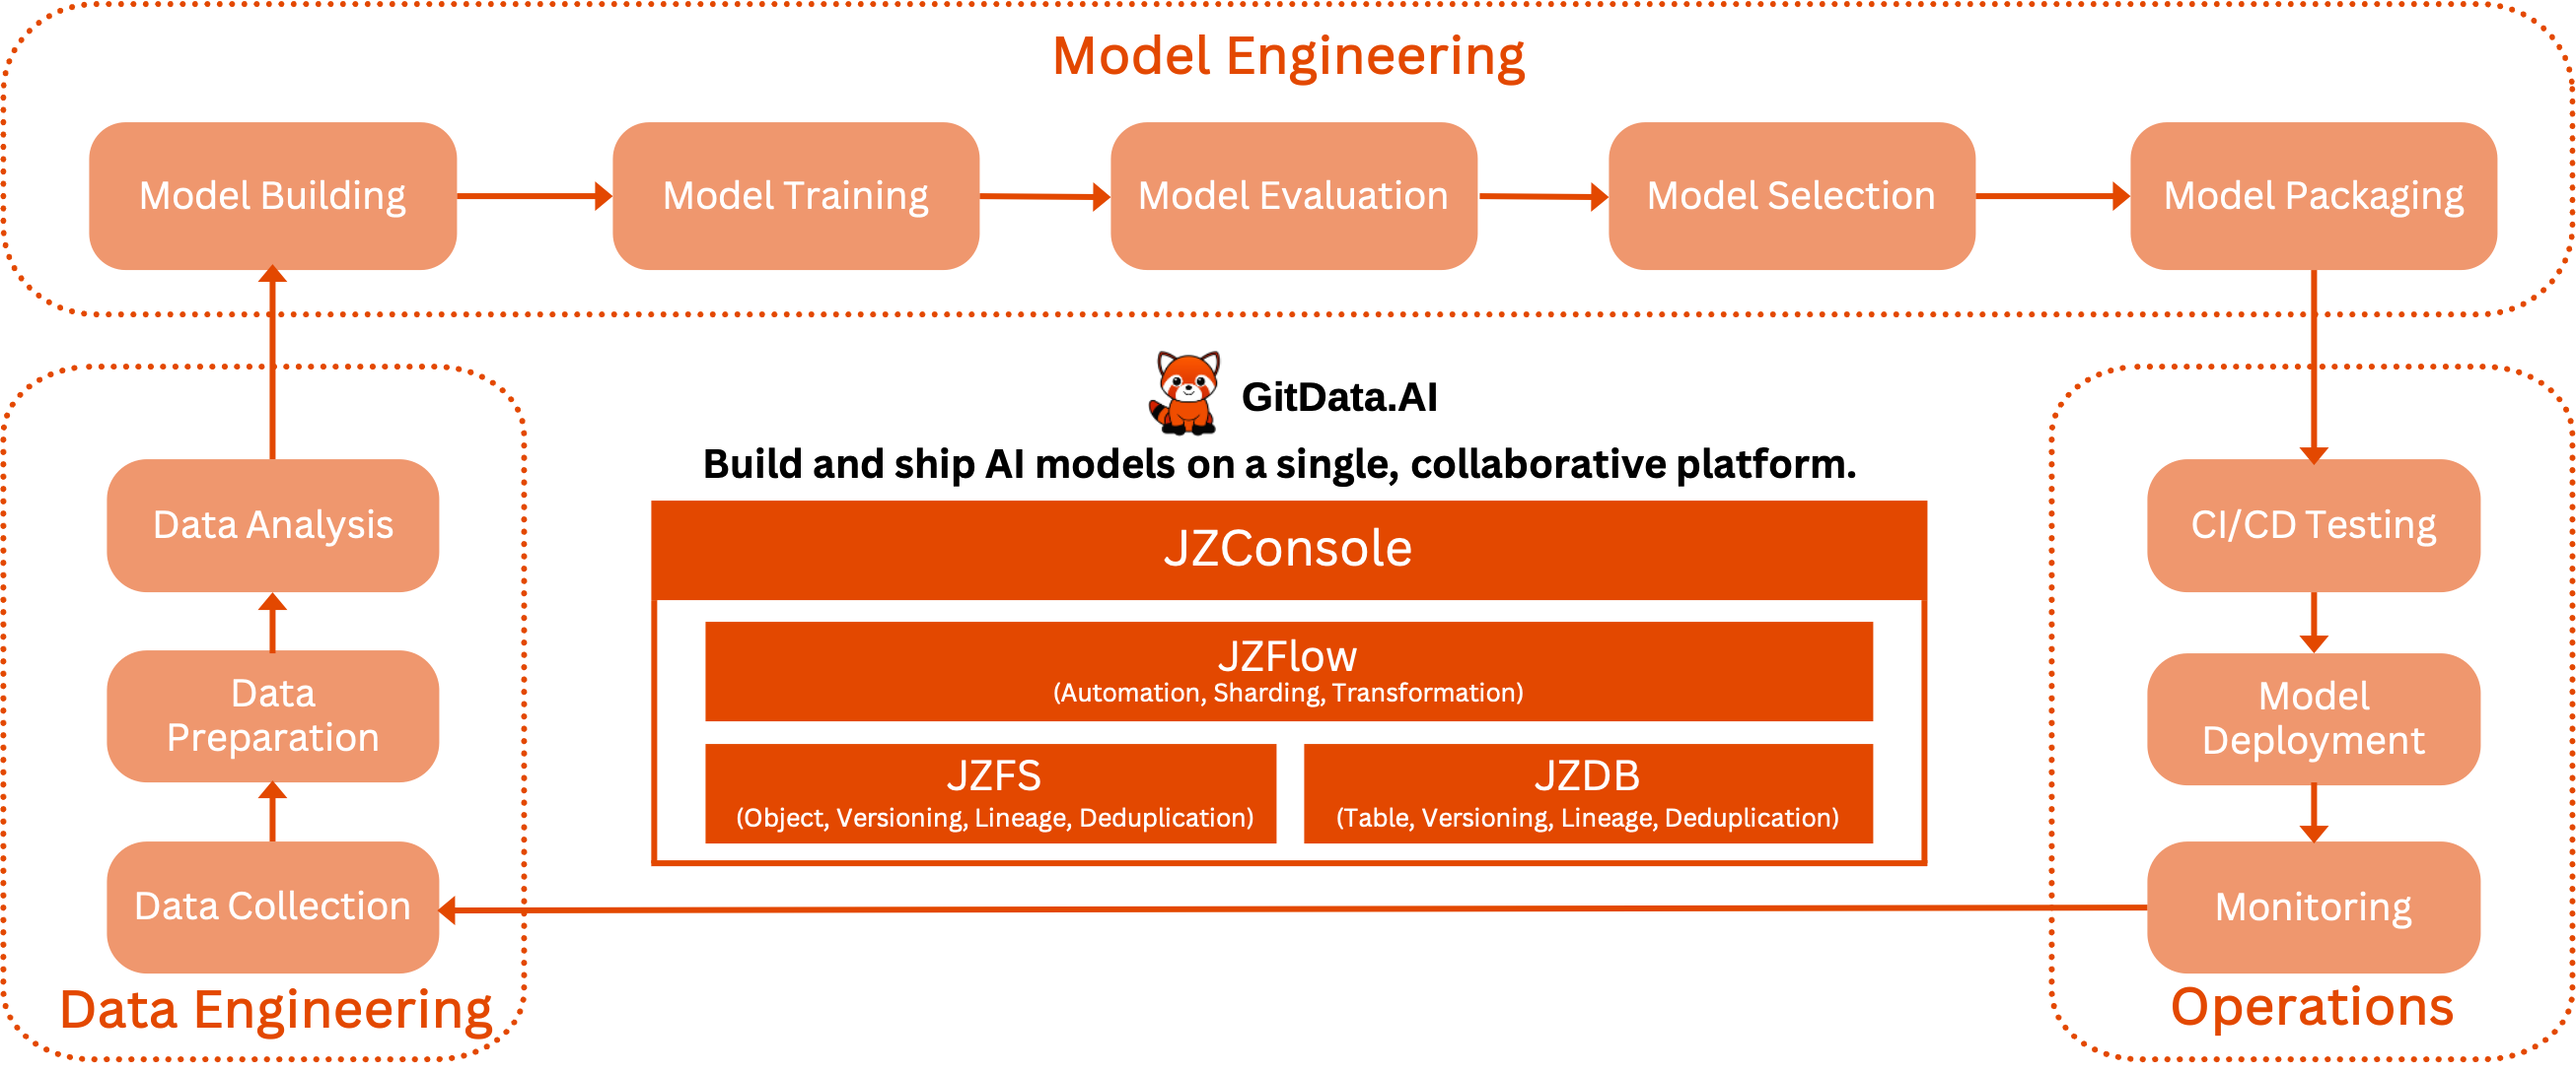
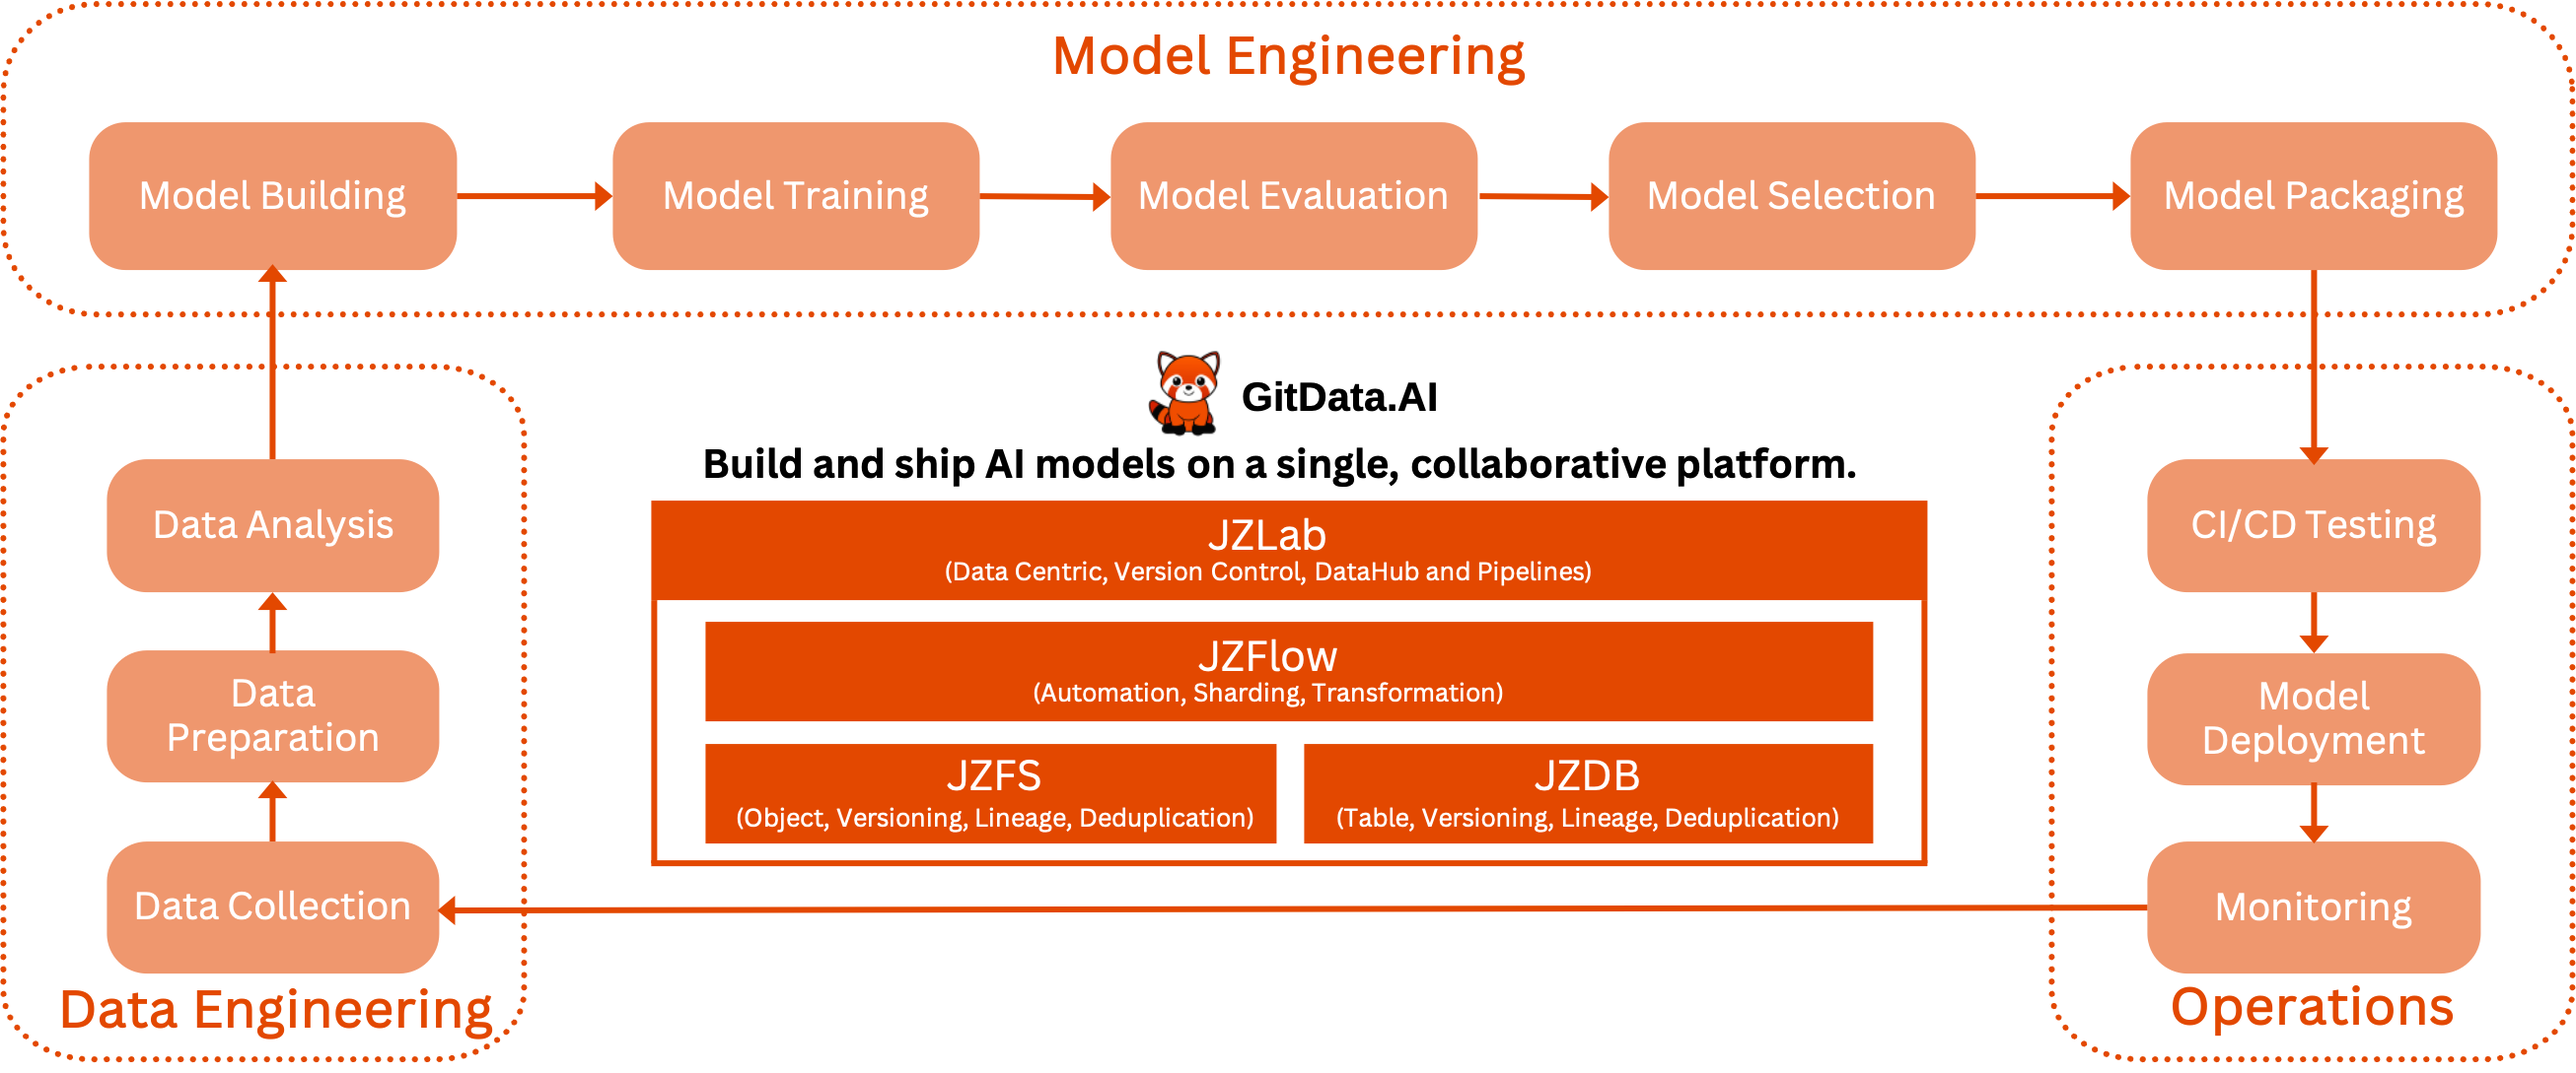
change jzconsole to jzlab

Changed region(s): [[0.3721, 0.4683, 0.6202, 0.562], [0.4031, 0.5932, 0.5892, 0.6556]]

diff --git a/README.md b/README.md
@@ -3,11 +3,11 @@
 
 ![GitData.AI Architecture](./profile/gitdata-stack.png)
 
-[GitData.AI](https://gitdata.ai) is an open source team to build cost-effective at scale MLOps platforms which enable data engineering teams to automate complex pipelines with sophisticated data transformations deeply intertwined with the data itself. 
+[GitData.AI](https://gitdata.ai) is a open source team to build cost-effective at scale MLOps platforms which enable data engineering teams to automate complex pipelines with sophisticated data transformations deeply intertwined with the data itself. 
 
 We take the unique composable modular approach to build the entire MLOps platform: 
 1. JZFS / JZDB: Git-like version control filesystem and database for data lineage tracking. 
 2. JZFlow: Parallelized processing of multi-stage, language-agnostic pipelines with data versioning.
-3. JZConsole: Intuitive visualization of directed acyclic graph (DAG) and aids with debugging and reproducibility.
+3. JZLab: Self-hosted MLOps platform with infrastructure orchestration, visualization and interaction.
 
 GitData.AI delivers the ultimate CI/CD/CT engine for MLOps.

diff --git a/profile/README.md b/profile/README.md
@@ -8,6 +8,6 @@
 We take the unique composable modular approach to build the entire MLOps platform: 
 1. JZFS / JZDB: Git-like version control filesystem and database for data lineage tracking. 
 2. JZFlow: Parallelized processing of multi-stage, language-agnostic pipelines with data versioning.
-3. JZConsole: Intuitive visualization of directed acyclic graph (DAG) and aids with debugging and reproducibility.
+3. JZLab: Self-hosted MLOps platform with infrastructure orchestration,visualization and interaction.
 
 GitData.AI delivers the ultimate CI/CD/CT engine for MLOps.
